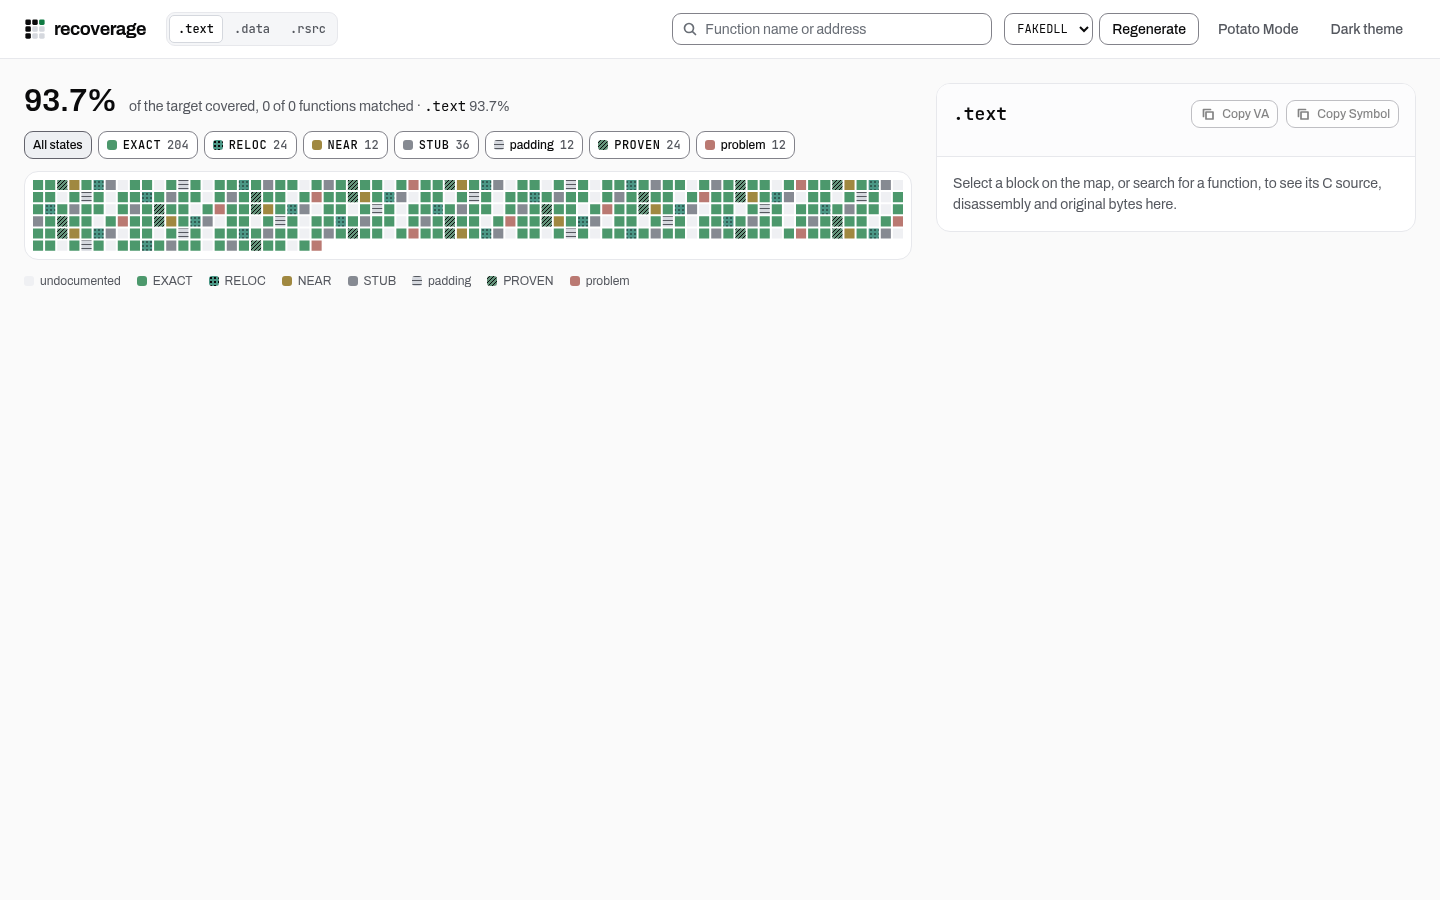
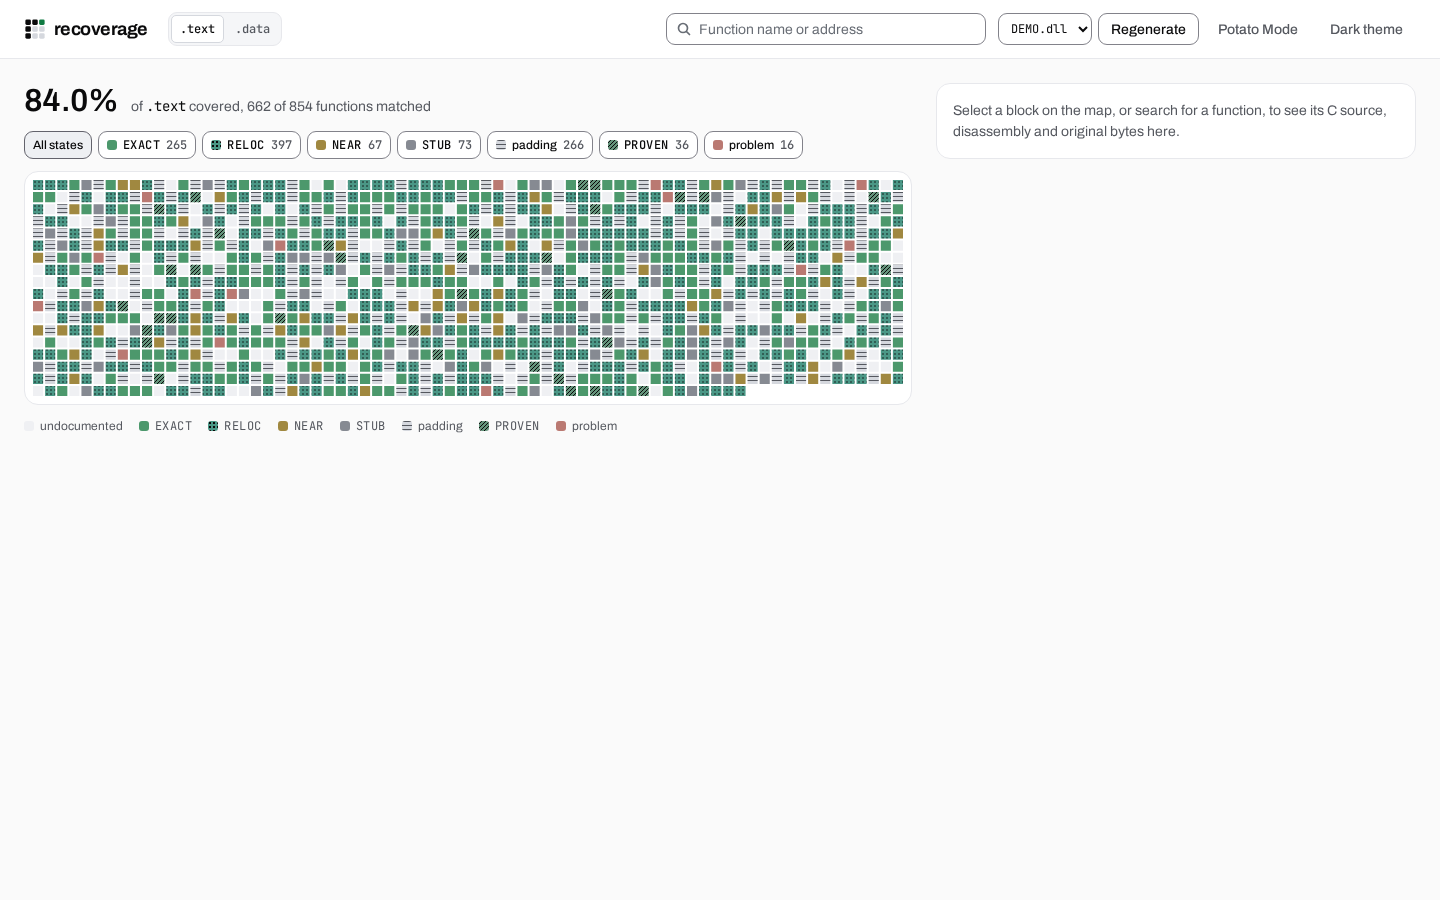
docs: re-shoot the README screenshots on a populated demo target
The old shots showed an 8-cell fixture reading "0 of 0 functions
matched", a detail panel with an error in the C pane and "1 bytes",
and the copy buttons and headline wording this branch replaced.

diff --git a/README.md b/README.md
@@ -36,10 +36,10 @@ block that covers it.
 
 > [!NOTE]
 > These four shots are captured from a running `recoverage serve` against a
-> synthetic coverage document (`tests/coverage_fixture.py`), so the target is
-> the fixture's `FAKEDLL` rather than a real one. The layout, the palette and
-> the states on the grid are the product's own; re-shoot against a real build
-> to replace the fixture's numbers.
+> synthetic project: an invented `DEMO` target whose coverage document was
+> written with `tests/coverage_fixture.py`'s writer, beside generated C files
+> and generated x86 code bytes. Every name and figure in them is made up; the
+> layout, the palette and the states on the grid are the product's own.
 
 ### Main dashboard
 
